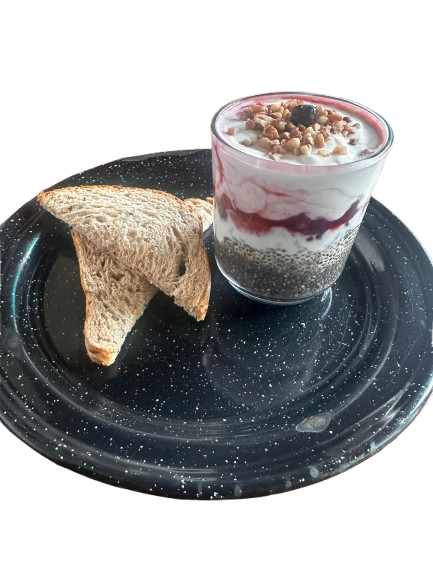
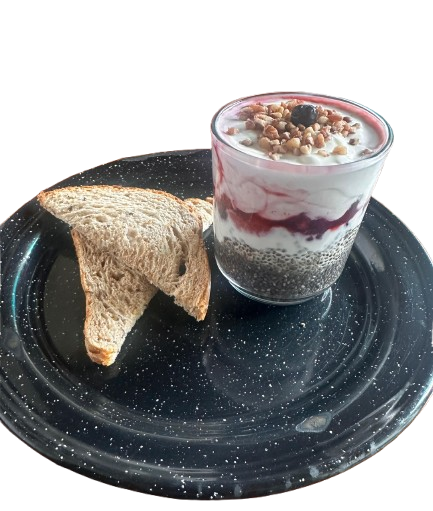
Fritata photo added to breakfast screem

diff --git a/src/pages/Desayunos.jsx b/src/pages/Desayunos.jsx
@@ -12,6 +12,7 @@ import pochadosMariaSabina from "../assets/pochadosMariaSabina.png"
 import parfaitFrutosRojos from "../assets/parfaitFrutosRojos.png"
 import jugoNaranja from "../assets/jugoNaranja.png"
 import licuadoVerde from "../assets/licuadoVerde.png"
+import tostaEsmeralda from "../assets/tostaEsmeralda.png"
 import styles from "../assets/styles/Desayunos.module.css";
 import React, { useState } from "react";
 import Modal from "../components/Modal"
@@ -22,7 +23,7 @@ export default function Desayunos() {
         {title: "Pochados María Sabina", desc: "Huevos pochados montados sobre champiñones al queso azul, una combinación divina.", precio: "$145", image: pochadosMariaSabina},
         {title: "Frittata Toscana", desc: "Tres huevos, requesón, champiñones y espinacas, un clásico italiano.", precio: "$145", image: fritata},
         {title: "Omelette New York", desc: "Dos huevos, jamón York y queso mozzarella, una opción clásica y deliciosa.", precio: "$125", image: omelette},
-        {title: "Tosta Esmeralda", desc: "Dos huevos a elección (pochados, revueltos o estrellados) sobre pan brioche y aguacate, una opción saludable y sabrosa.", precio: "$125"},
+        {title: "Tosta Esmeralda", desc: "Dos huevos a elección (pochados, revueltos o estrellados) sobre pan brioche y aguacate, una opción saludable y sabrosa.", precio: "$125", image: tostaEsmeralda},
         {title: "Pan Franco-Brulé", desc: "Un clásico francés con un toque de Estación Adelita.", precio: "$125", image: panFranco},
         {title: "Parfait de Frutos Rojos", desc: "Una deliciosa combinación de chía, yogurt griego, frutos rojos y nueces.", precio: "$85", image: parfaitFrutosRojos},
     ]
